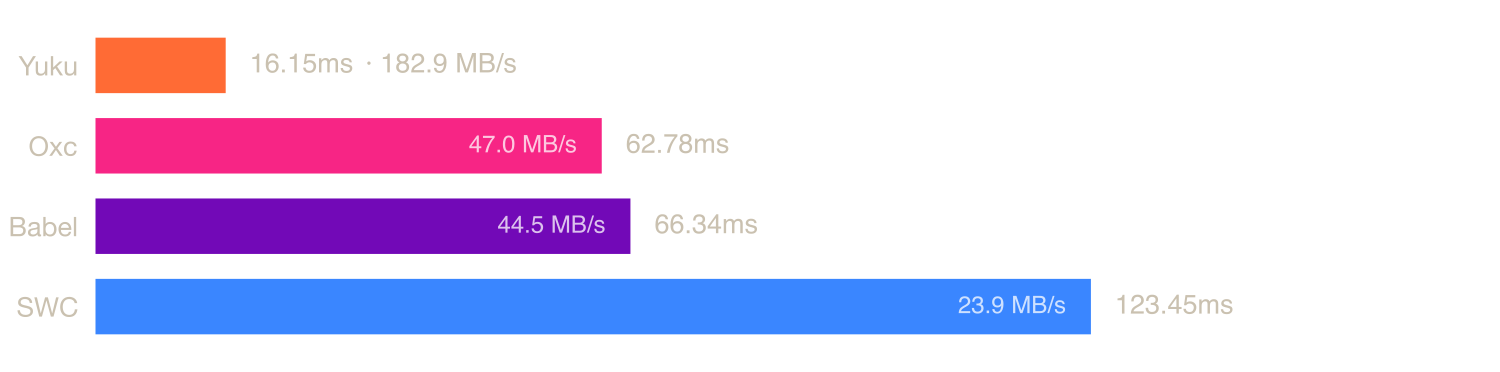
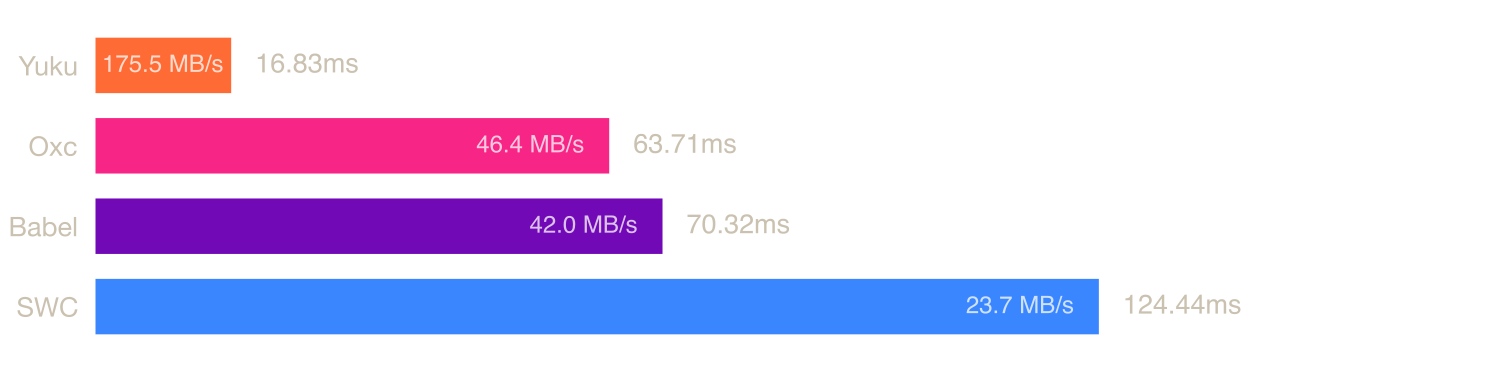
update parsers

diff --git a/scripts/generate-readme.ts b/scripts/generate-readme.ts
@@ -397,7 +397,7 @@ Each parser is benchmarked using [Tinybench](https://github.com/tinylibs/tinyben
 
 To keep results stable and fair, every parser × file combination runs in its own freshly spawned process, so JIT state and GC pressure from one parser never affect another. Each combination is benchmarked in multiple independent runs (3 by default), and the reported median is the median across those runs, a statistic that is robust to GC pauses, OS scheduling blips, and other outliers. The RME column shows the relative margin of error (99% confidence) within a run. Differences between parsers smaller than their combined margins should be treated as noise.
 
-Native parsers (Oxc, SWC, Yuku) run through their respective NAPI bindings, so measured time includes the binding overhead. Pure JS parsers (Acorn, Babel) run directly in the JavaScript runtime.
+Native parsers (Oxc, SWC, Yuku) run through their respective bindings, so measured time includes the binding overhead. Pure JS parsers (Acorn, Babel) run directly in the JavaScript runtime.
 
 \`lib.dom.d.ts\` is a global declaration script with no imports or exports. SWC parses it as a script rather than a module, because its npm binding otherwise rejects the file's \`...arguments\` parameter names under module strict mode.
 
@@ -412,7 +412,7 @@ It is not part of the results above for a simple reason. This benchmark measures
 
 If Oxc stabilizes raw transfer as its default path, we will happily benchmark it. That is the fair comparison we want.
 
-**Why is Yuku fast without any of that?** Yuku reaches the same zero-serialization end state, but by construction rather than by workaround. Its Zig parser does not build a pointer graph that later needs remapping. The AST *is already binary*, a flat table of fixed-size 44-byte node records addressed by index, with strings stored as offsets into the source. That layout is its own transfer format. It crosses the NAPI boundary as one small buffer sized to the actual AST, and a generated decoder reads it in JavaScript through typed arrays, conceptually the same read side as Oxc's raw transfer minus the pointer-to-offset machinery that forces the giant fixed arena.
+**Why is Yuku fast without any of that?** Yuku reaches the same zero-serialization end state, but by construction rather than by workaround. Its Zig parser does not build a pointer graph that later needs remapping. The AST *is already binary*, a flat table of fixed-size 44-byte node records addressed by index, with strings stored as offsets into the source. That layout is its own transfer format. It crosses the native boundary as one small buffer sized to the actual AST, and a generated decoder reads it in JavaScript through typed arrays, conceptually the same read side as Oxc's raw transfer minus the pointer-to-offset machinery that forces the giant fixed arena.
 
 Because there are no pointers to remap, there is no 2 GiB block, no 4 GiB alignment requirement, no multi-gigabyte reservation, and no runtime gate. The same code path runs on Node, Bun, and Deno, parses files in parallel without multiplying memory, and uses only the memory the file actually needs. Zig's comptime generates both the binary layout and the JavaScript decoder from one source of truth, so they can never drift apart. The numbers in the tables above are Yuku's default and only mode. There is no faster experimental path being held back and nothing extra to enable.`;
 }
@@ -421,7 +421,7 @@ async function main() {
   const readme = [
     "# ECMAScript Parser Benchmark (npm)",
     "",
-    "Benchmarks for ECMAScript parsers available as npm packages, including pure JavaScript parsers and native parsers (Zig, Rust) via NAPI bindings.",
+    "Benchmarks for ECMAScript parsers available as npm packages, including pure JavaScript parsers and native parsers (Zig, Rust).",
     "",
     getSystemInfo(),
     "",

diff --git a/scripts/bench.ts b/scripts/bench.ts
@@ -6,7 +6,7 @@ import * as babel from "@babel/parser";
 import * as oxc from "oxc-parser";
 import swc from "@swc/core";
 import type { ParseOptions as SwcParseOptions } from "@swc/types";
-import { parse as yukuParseSync, type SourceLang } from "yuku-parser";
+import { parse as yukuParseSync, type SourceLang } from "yuku";
 
 const FILES: Record<string, { path: string; lang: SourceLang }> = {
   typescript: { path: "files/typescript.js", lang: "js" },

diff --git a/README.md b/README.md
@@ -1,6 +1,6 @@
 # ECMAScript Parser Benchmark (npm)
 
-Benchmarks for ECMAScript parsers available as npm packages, including pure JavaScript parsers and native parsers (Zig, Rust) via NAPI bindings.
+Benchmarks for ECMAScript parsers available as npm packages, including pure JavaScript parsers and native parsers (Zig, Rust).
 
 ## System
 
@@ -43,11 +43,11 @@ A high-performance & spec-compliant JavaScript/TypeScript compiler written in Zi
 
 | Parser | Median | RME | Mean | Min | Max | Ops/sec | Relative |
 |--------|--------|-----|------|-----|-----|---------|----------|
-| **Yuku** | **42.67 ms** | **±0.90%** | **43.25 ms** | **39.90 ms** | **104.48 ms** | **23.44 ops/s** | **baseline** |
-| Acorn | 142.74 ms | ±2.92% | 146.52 ms | 127.31 ms | 276.63 ms | 7.01 ops/s | 3.35× slower |
-| Babel | 173.73 ms | ±5.11% | 183.17 ms | 134.40 ms | 416.32 ms | 5.76 ops/s | 4.07× slower |
-| Oxc | 218.35 ms | ±1.67% | 224.04 ms | 205.26 ms | 373.63 ms | 4.58 ops/s | 5.12× slower |
-| SWC | 433.36 ms | ±3.73% | 440.36 ms | 371.84 ms | 1316.07 ms | 2.31 ops/s | 10.16× slower |
+| **Yuku** | **46.20 ms** | **±0.47%** | **46.87 ms** | **44.17 ms** | **91.13 ms** | **21.65 ops/s** | **baseline** |
+| Acorn | 144.81 ms | ±1.06% | 145.15 ms | 123.90 ms | 163.17 ms | 6.91 ops/s | 3.13× slower |
+| Babel | 188.21 ms | ±6.93% | 210.43 ms | 136.33 ms | 776.98 ms | 5.31 ops/s | 4.07× slower |
+| Oxc | 211.32 ms | ±0.76% | 213.23 ms | 207.43 ms | 264.23 ms | 4.73 ops/s | 4.57× slower |
+| SWC | 387.75 ms | ±2.47% | 404.28 ms | 371.09 ms | 658.63 ms | 2.58 ops/s | 8.39× slower |
 
 ### [checker.ts](https://raw.githubusercontent.com/yuku-toolchain/parser-benchmark-files/refs/heads/main/checker.ts)
 
@@ -57,10 +57,10 @@ A high-performance & spec-compliant JavaScript/TypeScript compiler written in Zi
 
 | Parser | Median | RME | Mean | Min | Max | Ops/sec | Relative |
 |--------|--------|-----|------|-----|-----|---------|----------|
-| **Yuku** | **16.15 ms** | **±1.12%** | **16.60 ms** | **14.63 ms** | **55.30 ms** | **61.93 ops/s** | **baseline** |
-| Oxc | 62.78 ms | ±1.07% | 64.33 ms | 60.55 ms | 115.69 ms | 15.93 ops/s | 3.89× slower |
-| Babel | 66.34 ms | ±1.38% | 66.74 ms | 52.88 ms | 114.67 ms | 15.07 ops/s | 4.11× slower |
-| SWC | 123.45 ms | ±1.11% | 126.84 ms | 118.83 ms | 179.16 ms | 8.10 ops/s | 7.65× slower |
+| **Yuku** | **16.83 ms** | **±0.44%** | **17.00 ms** | **16.28 ms** | **54.34 ms** | **59.42 ops/s** | **baseline** |
+| Oxc | 63.71 ms | ±0.75% | 64.88 ms | 61.80 ms | 91.08 ms | 15.70 ops/s | 3.79× slower |
+| Babel | 70.32 ms | ±1.90% | 71.45 ms | 56.06 ms | 146.84 ms | 14.22 ops/s | 4.18× slower |
+| SWC | 124.44 ms | ±0.33% | 124.85 ms | 118.87 ms | 138.84 ms | 8.04 ops/s | 7.39× slower |
 | Acorn | Failed to parse | - | - | - | - | - | - |
 
 ### [lib.dom.d.ts](https://raw.githubusercontent.com/yuku-toolchain/parser-benchmark-files/refs/heads/main/lib.dom.d.ts)
@@ -71,10 +71,10 @@ A high-performance & spec-compliant JavaScript/TypeScript compiler written in Zi
 
 | Parser | Median | RME | Mean | Min | Max | Ops/sec | Relative |
 |--------|--------|-----|------|-----|-----|---------|----------|
-| **Yuku** | **8.66 ms** | **±0.77%** | **8.73 ms** | **7.62 ms** | **48.86 ms** | **115.47 ops/s** | **baseline** |
-| Oxc | 24.08 ms | ±0.75% | 24.41 ms | 22.88 ms | 55.53 ms | 41.53 ops/s | 2.78× slower |
-| Babel | 37.90 ms | ±1.32% | 38.60 ms | 30.87 ms | 73.67 ms | 26.39 ops/s | 4.38× slower |
-| SWC | 50.62 ms | ±0.74% | 50.91 ms | 48.80 ms | 89.26 ms | 19.76 ops/s | 5.84× slower |
+| **Yuku** | **9.49 ms** | **±0.60%** | **9.45 ms** | **9.01 ms** | **59.39 ms** | **105.34 ops/s** | **baseline** |
+| Oxc | 23.84 ms | ±0.28% | 23.98 ms | 22.85 ms | 30.04 ms | 41.94 ops/s | 2.51× slower |
+| Babel | 36.02 ms | ±0.75% | 36.09 ms | 30.86 ms | 43.75 ms | 27.76 ops/s | 3.79× slower |
+| SWC | 51.81 ms | ±1.40% | 52.58 ms | 50.11 ms | 169.43 ms | 19.30 ops/s | 5.46× slower |
 | Acorn | Failed to parse | - | - | - | - | - | - |
 
 ### [react.js](https://raw.githubusercontent.com/yuku-toolchain/parser-benchmark-files/refs/heads/main/react.js)
@@ -85,11 +85,11 @@ A high-performance & spec-compliant JavaScript/TypeScript compiler written in Zi
 
 | Parser | Median | RME | Mean | Min | Max | Ops/sec | Relative |
 |--------|--------|-----|------|-----|-----|---------|----------|
-| **Yuku** | **0.28 ms** | **±0.51%** | **0.33 ms** | **0.26 ms** | **15.58 ms** | **3593.35 ops/s** | **baseline** |
-| Acorn | 0.86 ms | ±0.46% | 0.91 ms | 0.79 ms | 17.66 ms | 1167.20 ops/s | 3.08× slower |
-| Babel | 1.12 ms | ±0.89% | 1.28 ms | 0.90 ms | 30.19 ms | 892.66 ops/s | 4.03× slower |
-| Oxc | 1.13 ms | ±0.58% | 1.22 ms | 1.08 ms | 20.31 ms | 888.56 ops/s | 4.04× slower |
-| SWC | 2.12 ms | ±0.47% | 2.22 ms | 2.05 ms | 36.86 ms | 472.41 ops/s | 7.61× slower |
+| **Yuku** | **0.30 ms** | **±0.68%** | **0.31 ms** | **0.28 ms** | **34.17 ms** | **3382.66 ops/s** | **baseline** |
+| Acorn | 0.88 ms | ±0.78% | 0.93 ms | 0.79 ms | 27.77 ms | 1141.55 ops/s | 2.96× slower |
+| Babel | 1.10 ms | ±0.76% | 1.24 ms | 0.89 ms | 28.71 ms | 910.56 ops/s | 3.71× slower |
+| Oxc | 1.11 ms | ±0.23% | 1.17 ms | 1.09 ms | 13.09 ms | 898.07 ops/s | 3.77× slower |
+| SWC | 2.10 ms | ±0.48% | 2.19 ms | 2.05 ms | 21.94 ms | 475.26 ops/s | 7.12× slower |
 
 ## Run Benchmarks
 
@@ -134,7 +134,7 @@ Each parser is benchmarked using [Tinybench](https://github.com/tinylibs/tinyben
 
 To keep results stable and fair, every parser × file combination runs in its own freshly spawned process, so JIT state and GC pressure from one parser never affect another. Each combination is benchmarked in multiple independent runs (3 by default), and the reported median is the median across those runs, a statistic that is robust to GC pauses, OS scheduling blips, and other outliers. The RME column shows the relative margin of error (99% confidence) within a run. Differences between parsers smaller than their combined margins should be treated as noise.
 
-Native parsers (Oxc, SWC, Yuku) run through their respective NAPI bindings, so measured time includes the binding overhead. Pure JS parsers (Acorn, Babel) run directly in the JavaScript runtime.
+Native parsers (Oxc, SWC, Yuku) run through their respective bindings, so measured time includes the binding overhead. Pure JS parsers (Acorn, Babel) run directly in the JavaScript runtime.
 
 `lib.dom.d.ts` is a global declaration script with no imports or exports. SWC parses it as a script rather than a module, because its npm binding otherwise rejects the file's `...arguments` parameter names under module strict mode.
 
@@ -149,6 +149,6 @@ It is not part of the results above for a simple reason. This benchmark measures
 
 If Oxc stabilizes raw transfer as its default path, we will happily benchmark it. That is the fair comparison we want.
 
-**Why is Yuku fast without any of that?** Yuku reaches the same zero-serialization end state, but by construction rather than by workaround. Its Zig parser does not build a pointer graph that later needs remapping. The AST *is already binary*, a flat table of fixed-size 44-byte node records addressed by index, with strings stored as offsets into the source. That layout is its own transfer format. It crosses the NAPI boundary as one small buffer sized to the actual AST, and a generated decoder reads it in JavaScript through typed arrays, conceptually the same read side as Oxc's raw transfer minus the pointer-to-offset machinery that forces the giant fixed arena.
+**Why is Yuku fast without any of that?** Yuku reaches the same zero-serialization end state, but by construction rather than by workaround. Its Zig parser does not build a pointer graph that later needs remapping. The AST *is already binary*, a flat table of fixed-size 44-byte node records addressed by index, with strings stored as offsets into the source. That layout is its own transfer format. It crosses the native boundary as one small buffer sized to the actual AST, and a generated decoder reads it in JavaScript through typed arrays, conceptually the same read side as Oxc's raw transfer minus the pointer-to-offset machinery that forces the giant fixed arena.
 
 Because there are no pointers to remap, there is no 2 GiB block, no 4 GiB alignment requirement, no multi-gigabyte reservation, and no runtime gate. The same code path runs on Node, Bun, and Deno, parses files in parallel without multiplying memory, and uses only the memory the file actually needs. Zig's comptime generates both the binary layout and the JavaScript decoder from one source of truth, so they can never drift apart. The numbers in the tables above are Yuku's default and only mode. There is no faster experimental path being held back and nothing extra to enable.
